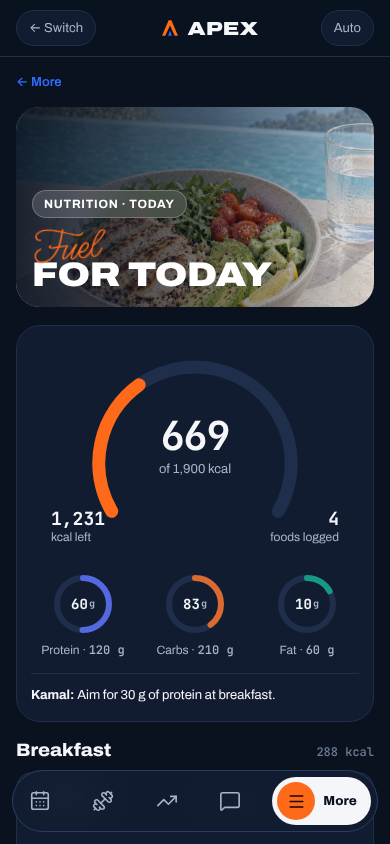
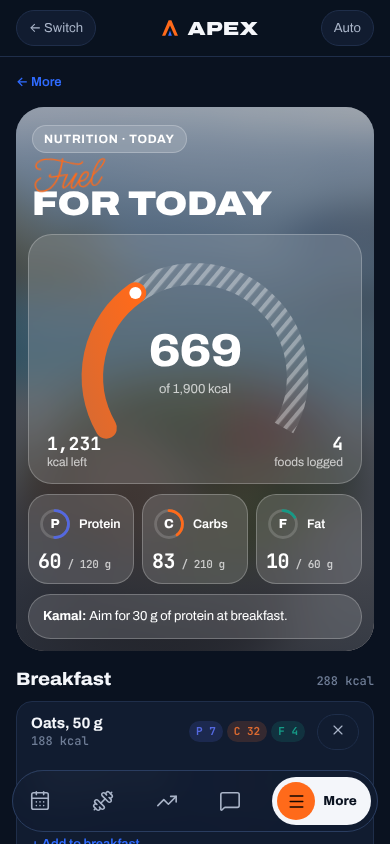
Daylight v3: frosted fuel board and run-mode GPS map
Fuel for today becomes a glass board over a blurred meal photo: a 240° calorie
arc with a white knob and hatched remaining track, and macro ring tiles.
Activity view gets a run-mode map: dark tiles, glowing orange route shaded by
pace, km chips, start dot and finish pin, a big distance and round stat pills.

Claude-Session: https://claude.ai/code/session_016AGgtKAaMziEC4MQwif3ag

diff --git a/packages/ui/src/ActivityViz.tsx b/packages/ui/src/ActivityViz.tsx
@@ -96,17 +96,23 @@ function mapLabel(mode: Metric, v: number, a: Activity): string {
  * the real values on the key), with distance markers, start and finish. `at` (0–1 of the distance) shows a dot that
  * follows the charts below.
  */
-export function RouteMap({ activity, height = 260, at = null }: { activity: Activity; height?: number; at?: number | null }) {
+/** `look="mode"`: the run-mode poster. Always dark tiles, an orange route (paler where slower), glass km chips,
+    and room left at the top and bottom for the overlays the screen puts there. */
+export function RouteMap({ activity, height = 260, at = null, look = "plain" }: { activity: Activity; height?: number; at?: number | null; look?: "plain" | "mode" }) {
   const route = activity.detail?.route;
   const profile = activity.detail?.profile;
-  const dark = useDarkTheme();
+  const themeDark = useDarkTheme();
+  const poster = look === "mode";
+  const dark = poster || themeDark;
   const [box, width] = useWidth<HTMLDivElement>();
   const [failed, setFailed] = useState(0);
   const modes = profile ? MAP_MODES.filter((m) => m === "pace" || (m === "hr" ? profile.filter((q) => q.hr).length > profile.length / 2 : activity.sport !== "swim" && profile.filter((q) => q.ele !== undefined).length > profile.length / 2)) : [];
   const [mode, setMode] = useState<Metric>("pace");
   const drawn = useMemo(() => {
     if (!route || route.length < 2 || width < 40) return null;
-    const view = fitView(route, width, height, 30);
+    const inset = poster ? { t: 190, b: 215 } : { t: 0, b: 0 };
+    const fit = fitView(route, width, Math.max(120, height - inset.t - inset.b), 30);
+    const view = { ...fit, height, top: fit.top - inset.t };
     const pts = route.map(([la, ln]) => viewPx(view, la, ln));
     // The chosen measure for each route point: route and profile are both spread evenly by distance.
     // Higher heat is quicker, a higher heart rate or higher ground.
@@ -141,12 +147,12 @@ export function RouteMap({ activity, height = 260, at = null }: { activity: Acti
     }).filter((_, j, all) => all.length <= 10 || (j + 1) % Math.ceil(all.length / 10) === 0);
     const loop = Math.hypot(pts[0]![0] - pts.at(-1)![0], pts[0]![1] - pts.at(-1)![1]) < 14;
     return { view, pts, tiles: tilesFor(view), segs, full, start: pts[0]!, end: pts.at(-1)!, marks, loop, range: series && hi > lo ? ([lo, hi] as const) : null };
-  }, [route, profile, activity.metres, activity.sport, width, height, mode]);
+  }, [route, profile, activity.metres, activity.sport, width, height, mode, poster]);
 
   const dot = drawn && at !== null ? drawn.pts[Math.round(Math.min(1, Math.max(0, at)) * (drawn.pts.length - 1))] : null;
   const showTiles = drawn && failed < 3;
   return (
-    <div ref={box} className={`cx-map ${showTiles ? "tiles" : ""}`} style={{ height }}>
+    <div ref={box} className={`cx-map ${showTiles ? "tiles" : ""} ${poster ? "mode" : ""}`} style={{ height }}>
       {drawn && (
         <>
           {showTiles && (
@@ -157,26 +163,58 @@ export function RouteMap({ activity, height = 260, at = null }: { activity: Acti
               ))}
             </div>
           )}
-          <svg width={drawn.view.width} height={drawn.view.height} viewBox={`0 0 ${drawn.view.width} ${drawn.view.height}`} role="img" aria-label={`Route of ${activity.name}`}>
-            <path d={drawn.full} fill="none" stroke={dark ? "#0B1020" : "#FFFFFF"} strokeOpacity=".9" strokeWidth="8" strokeLinecap="round" strokeLinejoin="round" />
-            {drawn.segs.map((s, i) => (
-              <path key={i} d={s.d} fill="none" stroke={`color-mix(in srgb, var(--viz-2) ${s.heat}%, var(--viz-1))`} strokeWidth="4.5" strokeLinecap="round" strokeLinejoin="round" />
-            ))}
-            {drawn.marks.map((m) => (
-              <g key={m.label} transform={`translate(${m.x.toFixed(1)} ${m.y.toFixed(1)})`}>
-                <circle r="9" fill="var(--card)" stroke="var(--line2)" />
-                <text textAnchor="middle" dy="3.5" fontSize="9" fontWeight="700" fill="var(--text)" fontFamily="var(--num)">{m.label}</text>
+          {poster ? (
+            <svg width={drawn.view.width} height={drawn.view.height} viewBox={`0 0 ${drawn.view.width} ${drawn.view.height}`} role="img" aria-label={`Route of ${activity.name}`}>
+              <path d={drawn.full} fill="none" stroke="var(--act)" strokeOpacity=".22" strokeWidth="14" strokeLinecap="round" strokeLinejoin="round" />
+              {drawn.segs.map((sg, i) => (
+                <path key={i} d={sg.d} fill="none" stroke={`color-mix(in srgb, var(--act) ${45 + Math.round(sg.heat * 0.55)}%, #FFFFFF)`} strokeWidth="4.5" strokeLinecap="round" strokeLinejoin="round" />
+              ))}
+              {drawn.marks.map((m) => <circle key={m.label} cx={m.x} cy={m.y} r="3.5" fill="var(--act)" stroke="#FFFFFF" strokeWidth="1.5" />)}
+              {drawn.marks.filter((_, j, all) => all.length <= 3 || j === Math.floor(all.length / 3) - 1 || j === Math.floor((2 * all.length) / 3) - 1 || j === all.length - 1).map((m) => {
+                const label = `${m.label} km`;
+                const w = 14 + label.length * 6.4;
+                const left = m.x + 10 + w > drawn.view.width - 8;
+                return (
+                  <g key={`c${m.label}`} transform={`translate(${(left ? m.x - 10 - w : m.x + 10).toFixed(1)} ${(m.y - 12).toFixed(1)})`}>
+                    <rect width={w} height="24" rx="12" fill="rgba(17,28,48,.78)" stroke="rgba(255,255,255,.22)" />
+                    <text x={w / 2} y="16" textAnchor="middle" fontSize="11.5" fontWeight="700" fill="#FFFFFF" fontFamily="var(--num)">{label}</text>
+                  </g>
+                );
+              })}
+              {!drawn.loop && <circle cx={drawn.start[0]} cy={drawn.start[1]} r="6.5" fill="#0A1220" stroke="#FFFFFF" strokeWidth="3" />}
+              <g transform={`translate(${(drawn.loop ? drawn.start : drawn.end)[0].toFixed(1)} ${(drawn.loop ? drawn.start : drawn.end)[1].toFixed(1)})`}>
+                <circle r="17" fill="var(--act)" fillOpacity=".22" />
+                <circle r="9" fill="var(--act)" stroke="#FFFFFF" strokeWidth="3" />
               </g>
-            ))}
-            {!drawn.loop && <circle cx={drawn.end[0]} cy={drawn.end[1]} r="7" fill="var(--crit)" stroke="var(--card)" strokeWidth="3" />}
-            <circle cx={drawn.start[0]} cy={drawn.start[1]} r="7" fill="var(--good)" stroke="var(--card)" strokeWidth="3" />
-            {dot && (
-              <g transform={`translate(${dot[0].toFixed(1)} ${dot[1].toFixed(1)})`}>
-                <circle r="13" fill="var(--text)" fillOpacity=".12" />
-                <circle r="6.5" fill="var(--text)" stroke="var(--card)" strokeWidth="2.5" />
-              </g>
-            )}
-          </svg>
+              {dot && (
+                <g transform={`translate(${dot[0].toFixed(1)} ${dot[1].toFixed(1)})`}>
+                  <circle r="13" fill="#FFFFFF" fillOpacity=".18" />
+                  <circle r="6.5" fill="#FFFFFF" stroke="#0A1220" strokeWidth="2.5" />
+                </g>
+              )}
+            </svg>
+          ) : (
+            <svg width={drawn.view.width} height={drawn.view.height} viewBox={`0 0 ${drawn.view.width} ${drawn.view.height}`} role="img" aria-label={`Route of ${activity.name}`}>
+              <path d={drawn.full} fill="none" stroke={dark ? "#0B1020" : "#FFFFFF"} strokeOpacity=".9" strokeWidth="8" strokeLinecap="round" strokeLinejoin="round" />
+              {drawn.segs.map((s, i) => (
+                <path key={i} d={s.d} fill="none" stroke={`color-mix(in srgb, var(--viz-2) ${s.heat}%, var(--viz-1))`} strokeWidth="4.5" strokeLinecap="round" strokeLinejoin="round" />
+              ))}
+              {drawn.marks.map((m) => (
+                <g key={m.label} transform={`translate(${m.x.toFixed(1)} ${m.y.toFixed(1)})`}>
+                  <circle r="9" fill="var(--card)" stroke="var(--line2)" />
+                  <text textAnchor="middle" dy="3.5" fontSize="9" fontWeight="700" fill="var(--text)" fontFamily="var(--num)">{m.label}</text>
+                </g>
+              ))}
+              {!drawn.loop && <circle cx={drawn.end[0]} cy={drawn.end[1]} r="7" fill="var(--crit)" stroke="var(--card)" strokeWidth="3" />}
+              <circle cx={drawn.start[0]} cy={drawn.start[1]} r="7" fill="var(--good)" stroke="var(--card)" strokeWidth="3" />
+              {dot && (
+                <g transform={`translate(${dot[0].toFixed(1)} ${dot[1].toFixed(1)})`}>
+                  <circle r="13" fill="var(--text)" fillOpacity=".12" />
+                  <circle r="6.5" fill="var(--text)" stroke="var(--card)" strokeWidth="2.5" />
+                </g>
+              )}
+            </svg>
+          )}
         </>
       )}
       {modes.length > 1 && (
@@ -185,8 +223,8 @@ export function RouteMap({ activity, height = 260, at = null }: { activity: Acti
         </div>
       )}
       <div className="cx-map-key">
-        <span><i style={{ background: "var(--good)" }} />Start{drawn?.loop ? " / finish" : ""}</span>
-        {drawn && !drawn.loop && <span><i style={{ background: "var(--crit)" }} />Finish</span>}
+        <span><i style={{ background: poster ? (drawn?.loop ? "var(--act)" : "#FFFFFF") : "var(--good)" }} />Start{drawn?.loop ? " / finish" : ""}</span>
+        {drawn && !drawn.loop && <span><i style={{ background: poster ? "var(--act)" : "var(--crit)" }} />Finish</span>}
         {drawn?.range && (
           <span className="cx-heat">
             <b className="num">{mapLabel(mode, drawn.range[0], activity)}</b><i /><b className="num">{mapLabel(mode, drawn.range[1], activity)}</b>

diff --git a/packages/ui/src/styles.css b/packages/ui/src/styles.css
@@ -650,22 +650,36 @@ button.tile{font:inherit}
 .navbar .btn{min-height:50px}
 .navbar .btn.ghost{background:var(--card2);border-color:var(--line2)}
 /* Nutrition: calorie arc and macro rings */
-.fuel{display:flex;flex-direction:column;align-items:center;gap:6px;padding:18px 16px 16px}
-.fuel-arc{position:relative;width:min(100%,260px);aspect-ratio:200/140}
+.fuel{display:flex;flex-direction:column;align-items:center;gap:6px;padding:14px 12px 12px}
+.fuel-arc{position:relative;width:min(100%,270px);aspect-ratio:200/150}
 .fuel-arc svg{width:100%;height:100%;overflow:visible}
-.fuel-arc .mid{position:absolute;left:0;right:0;top:36%;display:flex;flex-direction:column;align-items:center}
-.fuel-arc .mid b{font:700 40px/1 var(--num);letter-spacing:-.03em}
-.fuel-arc .mid span{font-size:13px;color:var(--text2);margin-top:4px}
-.fuel-side{display:flex;justify-content:space-between;width:100%;margin-top:-34px;padding:0 4px}
+.fuel-arc .mid{position:absolute;left:0;right:0;top:38%;display:flex;flex-direction:column;align-items:center}
+.fuel-arc .mid b{font:800 46px/1 var(--head);font-stretch:110%;letter-spacing:-.02em}
+.fuel-arc .mid span{font-size:13px;color:var(--text2);margin-top:6px}
+.fuel-side{display:flex;justify-content:space-between;width:100%;margin-top:-30px;padding:0 6px}
 .fuel-side div{display:flex;flex-direction:column}
 .fuel-side b{font:700 18px/1.1 var(--num)}
 .fuel-side small{font-size:12px;color:var(--text2)}
-.rings{display:grid;grid-template-columns:repeat(3,minmax(0,1fr));gap:8px;width:100%;margin-top:10px}
-.ring{display:flex;flex-direction:column;align-items:center;gap:6px}
-.ring .r{position:relative;width:64px;height:64px}
+.rings{display:grid;grid-template-columns:repeat(3,minmax(0,1fr));gap:8px;width:100%}
+.ring{display:flex;flex-direction:column;gap:10px;padding:12px 9px;border-radius:20px;background:var(--glass);border:1px solid var(--glass-line);backdrop-filter:blur(16px);-webkit-backdrop-filter:blur(16px);min-width:0}
+.ring-top{display:flex;align-items:center;gap:7px;min-width:0}
+.ring .r{position:relative;width:34px;height:34px;flex:none}
 .ring .r svg{width:100%;height:100%;transform:rotate(-90deg)}
-.ring .r b{position:absolute;inset:0;display:flex;align-items:center;justify-content:center;gap:1px;font:700 14px/1 var(--num)}
-.ring small{font-size:12px;color:var(--text2)}
+.ring .r i{position:absolute;inset:0;display:grid;place-items:center;font:800 13px/1 var(--head);font-style:normal}
+.ring-top span{font:600 12.5px/1.15 var(--ui);overflow:hidden;text-overflow:ellipsis}
+.ring>b{font:700 20px/1 var(--num);letter-spacing:-.02em;white-space:nowrap}
+.ring>b small{font-size:11px;font-weight:500;opacity:.7}
+
+/* Fuel board: frosted panels over a blurred photo, white ink in both themes */
+.fuelboard{position:relative;isolation:isolate;overflow:hidden;border-radius:28px;padding:16px 12px 12px;display:flex;flex-direction:column;gap:10px;color:var(--glass-ink);background:#0A1220}
+.fb-bg{position:absolute;inset:-40px;width:calc(100% + 80px);height:calc(100% + 80px);object-fit:cover;filter:blur(18px) saturate(1.05);z-index:-2}
+.fuelboard::before{content:"";position:absolute;inset:0;background:linear-gradient(180deg,rgba(10,18,32,.30) 0%,rgba(10,18,32,.62) 45%,rgba(10,18,32,.80) 100%);z-index:-1}
+.fb-head{display:flex;flex-direction:column;align-items:flex-start;gap:6px;padding:2px 4px 4px}
+.fb-head .stitle .b{color:#fff}
+.fb-note{margin:0;padding:0 4px;font-size:13px;color:rgba(255,255,255,.8)}
+.fb-glass{border-radius:24px;background:var(--glass);border:1px solid var(--glass-line);backdrop-filter:blur(16px);-webkit-backdrop-filter:blur(16px)}
+.fb-coach{padding:12px 14px;font-size:13px;line-height:1.45}
+.fuelboard .fuel-arc .mid span,.fuelboard .fuel-side small{color:rgba(255,255,255,.72)}
 .mpills{display:flex;gap:4px;flex-wrap:wrap;justify-content:flex-end}
 .mpill{font:700 11px/1 var(--num);padding:5px 7px;border-radius:var(--pill)}
 .mpill.p{background:color-mix(in srgb,var(--viz-1) 18%,transparent);color:var(--viz-1)}
@@ -691,3 +705,29 @@ button.tile{font:inherit}
 .stitle.xl{font-size:clamp(44px,8vw,96px)}
 .hero .stitle .b{color:#fff}
 .hero .stitle .s{color:#FF6A1A}
+
+/* Run mode: the route as a dark poster with glass overlays (same in both themes) */
+.runmode{position:relative;border-radius:30px;overflow:hidden;background:#0A1220;color:#fff;flex-shrink:0;isolation:isolate}
+.runmode .cx-map{border:0;border-radius:0;background:#0A1220}
+.cx-map.mode .cx-tiles img{filter:saturate(.6) brightness(.9)}
+.cx-map.mode::before{content:"";position:absolute;inset:0;z-index:1;pointer-events:none;background:linear-gradient(180deg,rgba(10,18,32,.92) 0%,rgba(10,18,32,.25) 30%,rgba(10,18,32,0) 48%,rgba(10,18,32,.35) 64%,rgba(10,18,32,.95) 100%)}
+.cx-map.mode svg{z-index:2}
+.cx-map.mode .cx-map-modes{left:auto;right:12px;top:14px;z-index:4;background:rgba(17,28,48,.72);border-color:rgba(255,255,255,.18);backdrop-filter:blur(12px)}
+.cx-map.mode .cx-map-modes button{color:rgba(255,255,255,.75)}
+.cx-map.mode .cx-map-modes button.on{background:#fff;color:#0A1220}
+.cx-map.mode .cx-map-key{left:14px;right:14px;justify-content:center;bottom:212px;z-index:4;color:rgba(255,255,255,.85)}
+.cx-map.mode .cx-map-key span{background:rgba(17,28,48,.7);border:1px solid rgba(255,255,255,.14)}
+.cx-map.mode .cx-map-key .cx-heat i{background:linear-gradient(90deg,color-mix(in srgb,var(--act) 45%,#fff),var(--act))}
+.cx-map.mode .cx-credit{z-index:4;background:rgba(10,18,32,.6);color:rgba(255,255,255,.6)}
+.rm-top{position:absolute;left:14px;right:14px;top:14px;z-index:3;display:flex;flex-direction:column;align-items:flex-start;gap:10px;pointer-events:none}
+.rm-top>*{pointer-events:auto}
+.rm-title{margin:0;max-width:100%;font:900 30px/1.02 var(--head);font-stretch:112%;letter-spacing:-.015em;text-wrap:balance}
+.rm-bottom{position:absolute;left:12px;right:12px;bottom:12px;z-index:3;display:flex;flex-direction:column;align-items:center}
+.rm-big{font:800 58px/1 var(--head);font-stretch:108%;letter-spacing:-.03em}
+.rm-big small{font:600 16px/1 var(--ui);margin-left:4px;opacity:.75}
+.rm-cap{font-size:13px;color:rgba(255,255,255,.72);margin-top:4px}
+.rm-pills{display:grid;grid-template-columns:repeat(3,minmax(0,1fr));gap:8px;width:100%;margin-top:14px}
+.rm-pill{display:flex;flex-direction:column;align-items:center;gap:3px;padding:10px 6px;border-radius:999px;background:rgba(17,28,48,.62);border:1px solid rgba(255,255,255,.16);backdrop-filter:blur(14px);-webkit-backdrop-filter:blur(14px);min-width:0}
+.rm-pill b{font:700 17px/1 var(--num);white-space:nowrap}
+.rm-pill b small{font-size:10.5px;font-weight:500;opacity:.7}
+.rm-pill span{font-size:10.5px;color:rgba(255,255,255,.66);white-space:nowrap;overflow:hidden;text-overflow:ellipsis;max-width:100%}

diff --git a/packages/ui/src/lifestyle.tsx b/packages/ui/src/lifestyle.tsx
@@ -1,4 +1,4 @@
-import type { ReactNode } from "react";
+import { useId, type ReactNode } from "react";
 import { Bar } from "./primitives";
 
 /* Small visuals for habits and nutrition. Flat, hairline, colour only where it carries meaning. */
@@ -78,18 +78,33 @@ const arcPath = (cx: number, cy: number, r: number, from: number, to: number) =>
   return `M ${x1} ${y1} A ${r} ${r} 0 ${to - from > 180 ? 1 : 0} 1 ${x2} ${y2}`;
 };
 
-/** Calories eaten against the target on an open arc, with what's left and how many foods are logged either side. */
+/** Calories eaten against the target on an open arc: a warm filled stroke with a knob where you are, and a hatched track for what's left. */
 export function FuelGauge({ eaten, target, logs }: { eaten: number; target: number | null; logs: number }) {
+  const id = useId().replace(/:/g, "");
   const SWEEP = 240;
+  const R = 76;
   const pct = target ? Math.min(1, eaten / target) : 0;
   const over = !!target && eaten > target;
   const left = target ? Math.round(target - eaten) : null;
+  const end = -SWEEP / 2 + Math.max(3, SWEEP * pct);
+  const [kx, ky] = polar(100, 92, R, end);
   return (
     <div className="fuel">
       <div className="fuel-arc">
-        <svg viewBox="0 0 200 140" role="img" aria-label={target ? `${Math.round(eaten)} of ${target} kcal eaten` : `${Math.round(eaten)} kcal eaten`}>
-          <path d={arcPath(100, 86, 74, -SWEEP / 2, SWEEP / 2)} stroke="var(--line)" strokeWidth={10} strokeLinecap="round" fill="none" />
-          {pct > 0 && <path d={arcPath(100, 86, 74, -SWEEP / 2, -SWEEP / 2 + Math.max(2, SWEEP * pct))} stroke={over ? "var(--warn)" : "var(--act)"} strokeWidth={10} strokeLinecap="round" fill="none" />}
+        <svg viewBox="0 0 200 150" role="img" aria-label={target ? `${Math.round(eaten)} of ${target} kcal eaten` : `${Math.round(eaten)} kcal eaten`}>
+          <defs>
+            <pattern id={`h${id}`} width="7" height="7" patternUnits="userSpaceOnUse" patternTransform="rotate(40)">
+              <rect width="7" height="7" fill="rgba(255,255,255,.07)" />
+              <rect width="3" height="7" fill="rgba(255,255,255,.34)" />
+            </pattern>
+            <linearGradient id={`g${id}`} x1="0" y1="1" x2="1" y2="0">
+              <stop offset="0" stopColor={over ? "var(--warn)" : "var(--viz-2)"} />
+              <stop offset="1" stopColor={over ? "var(--warn)" : "var(--act)"} />
+            </linearGradient>
+          </defs>
+          <path d={arcPath(100, 92, R, end, SWEEP / 2)} stroke={`url(#h${id})`} strokeWidth={16} fill="none" />
+          {pct > 0 && <path d={arcPath(100, 92, R, -SWEEP / 2, end)} stroke={`url(#g${id})`} strokeWidth={16} strokeLinecap="round" fill="none" />}
+          {pct > 0 && <circle cx={kx} cy={ky} r={4.5} fill="#fff" />}
         </svg>
         <div className="mid"><b>{Math.round(eaten).toLocaleString("en-GB")}</b><span>{target ? `of ${target.toLocaleString("en-GB")} kcal` : "kcal today"}</span></div>
       </div>
@@ -101,24 +116,27 @@ export function FuelGauge({ eaten, target, logs }: { eaten: number; target: numb
   );
 }
 
-/** One macro as a small ring: grams eaten in the middle, the target underneath. */
+/** One macro per frosted tile: a ring with its initial inside, the name beside it, and grams eaten against the target. */
 export function MacroRings({ lines }: { lines: MacroLine[] }) {
-  const R = 26;
+  const R = 19;
   const C = 2 * Math.PI * R;
   return (
     <div className="rings">
       {lines.map((l) => {
         const pct = l.target ? Math.min(1, l.value / l.target) : 0;
         return (
-          <div key={l.label} className="ring">
-            <div className="r">
-              <svg viewBox="0 0 64 64" aria-hidden="true">
-                <circle cx={32} cy={32} r={R} stroke="var(--line)" strokeWidth={6} fill="none" />
-                {pct > 0 && <circle cx={32} cy={32} r={R} stroke={l.colour} strokeWidth={6} fill="none" strokeLinecap="round" strokeDasharray={`${C * pct} ${C}`} />}
-              </svg>
-              <b>{Math.round(l.value)}<small style={{ fontSize: 10, color: "var(--text2)" }}>{l.unit}</small></b>
+          <div key={l.label} className="ring" aria-label={`${l.label}: ${Math.round(l.value)} of ${l.target ?? "no target"} ${l.unit}`}>
+            <div className="ring-top">
+              <div className="r">
+                <svg viewBox="0 0 48 48" aria-hidden="true">
+                  <circle cx={24} cy={24} r={R} stroke="rgba(255,255,255,.16)" strokeWidth={4} fill="none" />
+                  {pct > 0 && <circle cx={24} cy={24} r={R} stroke={l.colour} strokeWidth={4} fill="none" strokeLinecap="round" strokeDasharray={`${C * pct} ${C}`} />}
+                </svg>
+                <i>{l.label[0]}</i>
+              </div>
+              <span>{l.label}</span>
             </div>
-            <small>{l.label} · <span className="num">{l.target ? `${l.target.toLocaleString("en-GB")} ${l.unit}` : "no target"}</span></small>
+            <b className="num">{Math.round(l.value)}<small> / {l.target ? `${l.target.toLocaleString("en-GB")} ${l.unit}` : "–"}</small></b>
           </div>
         );
       })}

diff --git a/apps/web/src/app/ActivityView.tsx b/apps/web/src/app/ActivityView.tsx
@@ -59,20 +59,25 @@ export function ActivityView({ activity, all, showNote = true }: { activity: Act
   const [dist, unit] = a.sport === "swim" || a.metres < 1000 ? [Math.round(a.metres).toLocaleString("en-GB"), "m"] : [(a.metres / 1000).toFixed(2), "km"];
   return (
     <>
-      <div>
-        <div className="eyebrow" style={{ display: "flex", alignItems: "center", gap: 6 }}><SportIcon sport={a.sport} size={14} /> {sportLabel(a.sport)} · {whenLabel(a.startedAt)}</div>
-        <h1 className="h1">{a.name}</h1>
-        <div className="row" style={{ marginTop: 8, gap: 6, flexWrap: "wrap" }}>
-          <Label kind="data">{SOURCE_LABEL[a.source]}</Label>
-          {pbs.map((b) => <span key={b.label} className="cx-pb">★ {b.label} PB</span>)}
+      <div className="runmode">
+        <RouteMap activity={a} at={mapAt} height={a.detail?.route ? 640 : 400} look="mode" />
+        <div className="rm-top">
+          <span className="gpill"><SportIcon sport={a.sport} size={14} /> {sportLabel(a.sport)} · {whenLabel(a.startedAt)}</span>
+          <h1 className="rm-title">{a.name}</h1>
+          <div className="row" style={{ gap: 6, flexWrap: "wrap" }}>
+            <Label kind="data">{SOURCE_LABEL[a.source]}</Label>
+            {pbs.map((b) => <span key={b.label} className="cx-pb">★ {b.label} PB</span>)}
+          </div>
         </div>
-      </div>
-      <div className="cx-hero">
-        <div className="big"><b className="num">{a.metres ? dist : formatDuration(a.movingSeconds)}<small>{a.metres ? unit : ""}</small></b><span>{a.metres ? "Distance" : "Time"}</span></div>
-        {stats.map(([v, l, u]) => <div key={l}><b className="num">{v}{u && <small>{u}</small>}</b><span>{l}</span></div>)}
-      </div>
-      <div className="cx-stage">
-        <RouteMap activity={a} at={mapAt} height={340} />
+        <div className="rm-bottom">
+          <b className="rm-big num">{a.metres ? dist : formatDuration(a.movingSeconds)}{a.metres ? <small>{unit}</small> : null}</b>
+          <span className="rm-cap">{a.metres ? "Distance" : "Moving time"}</span>
+          <div className="rm-pills">
+            {stats.map(([v, l, u]) => (
+              <div key={l} className="rm-pill"><b className="num">{v}{u && <small> {u}</small>}</b><span>{l}</span></div>
+            ))}
+          </div>
+        </div>
       </div>
       {vsUsual && <LoadCompare {...vsUsual} sportName={sportLabel(a.sport).toLowerCase()} />}
       <RunAnalysis activity={a} onAt={setMapAt} />

diff --git a/apps/web/src/client/screens/Nutrition.tsx b/apps/web/src/client/screens/Nutrition.tsx
@@ -38,25 +38,25 @@ export function ClientNutrition() {
   if (s.status !== "ready") return <><div><div className="eyebrow">Nutrition</div><h1 className="h1">Food today</h1></div><LifestyleStatus state={s} /></>;
   return (
     <>
-      <div className="hero short side">
-        <img className="hero-img" src={HERO_IMAGES.meal.src} alt="" style={{ objectPosition: HERO_IMAGES.meal.focus.replace("center", "75%") }} />
-        <div className="hero-body">
-          <span className="gpill caps" style={{ alignSelf: "flex-start" }}>Nutrition · today</span>
+      <section className="fuelboard">
+        <img className="fb-bg" src={HERO_IMAGES.meal.src} alt="" />
+        <div className="fb-head">
+          <span className="gpill caps">Nutrition · today</span>
           {t && eaten.kcal >= t.kcal * 0.9 && eaten.kcal <= t.kcal * 1.05 ? <ScriptTitle script="Right">on target</ScriptTitle> : <ScriptTitle script="Fuel">for today</ScriptTitle>}
         </div>
-      </div>
-      {!t && <p className="sub" style={{ margin: 0 }}>{coachName} hasn't set your targets yet. Log what you eat and they'll use it to set them.</p>}
-      <div className="card" style={{ padding: "4px 14px 16px", borderRadius: "var(--r-lg)" }}>
-        <FuelGauge eaten={eaten.kcal} target={t?.kcal ?? null} logs={todays.length} />
+        {!t && <p className="fb-note">{coachName} hasn't set your targets yet. Log what you eat and they'll use it to set them.</p>}
+        <div className="fb-glass">
+          <FuelGauge eaten={eaten.kcal} target={t?.kcal ?? null} logs={todays.length} />
+        </div>
         {t && (
           <MacroRings lines={[
             { label: "Protein", value: eaten.proteinG, target: t.proteinG, unit: "g", colour: "var(--viz-1)" },
-            { label: "Carbs", value: eaten.carbsG, target: t.carbsG, unit: "g", colour: "var(--viz-2)" },
+            { label: "Carbs", value: eaten.carbsG, target: t.carbsG, unit: "g", colour: "var(--act)" },
             { label: "Fat", value: eaten.fatG, target: t.fatG, unit: "g", colour: "var(--viz-3)" },
           ]} />
         )}
-        {t?.note && <div className="small" style={{ color: "var(--text)", marginTop: 14, paddingTop: 12, borderTop: "1px solid var(--line)" }}><b>{coachName}:</b> {t.note}</div>}
-      </div>
+        {t?.note && <div className="fb-glass fb-coach"><b>{coachName}:</b> {t.note}</div>}
+      </section>
 
       {MEALS.map((m) => {
         const list = todays.filter((f) => f.meal === m.key);
